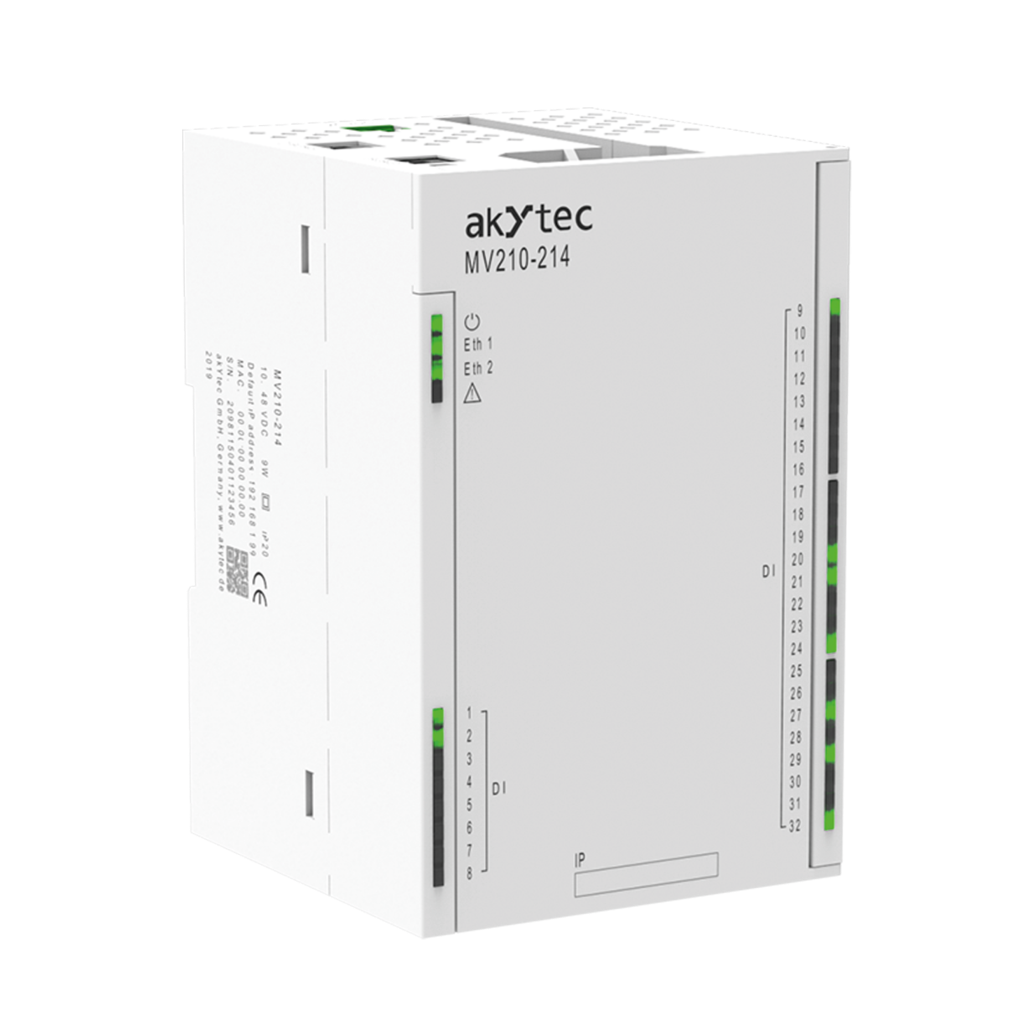
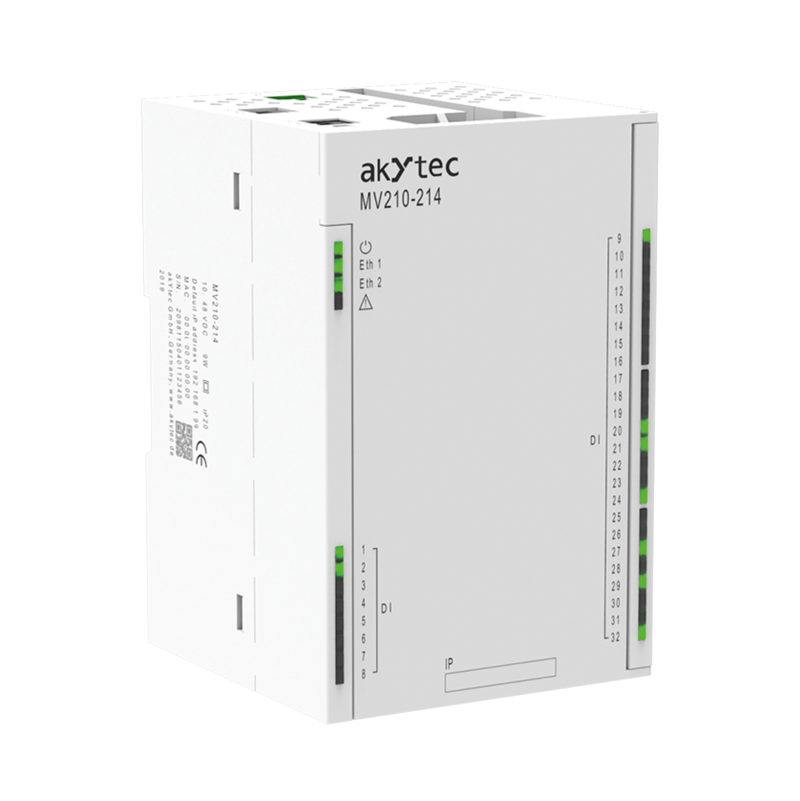
fix/ change size of module png and reslove horizontal scrolling

diff --git a/src/ui/modification-card/modification-card.tsx b/src/ui/modification-card/modification-card.tsx
@@ -9,7 +9,7 @@ export const ModificationCard: FC<any> = (props) => {
 
 const {info, ChangeArrayWithAllOrderPosition} = props;
 
-const {AI, AO, DI, DO, certain_name, common_name, image, width, height, isOrdered, href} = info;
+const {AI, AO, DI, DO, certain_name, common_name, image, width, height, isOrdered, href, unAppproprietedSize} = info;
 
 const {cnContainerNotification, cnContainerButton} = getClasses({
     isOrdered,
@@ -18,7 +18,7 @@ const {cnContainerNotification, cnContainerButton} = getClasses({
 
     return (<li className={classes.modificationCardBlock}>
         <span className={cnContainerNotification}>ADDED TO CART</span>
-        <Image alt="module" src={image} width={width} height={height}/>
+        <Image style={{ position: unAppproprietedSize ? 'absolute' : 'unset', top: unAppproprietedSize ? '0px' : 'unset',  }} alt="module" src={image} width={width} height={height}/>
         <header>{certain_name}</header>
         <div>{common_name}</div>
         <div>{DI && ` DI: ${DI}`}{DO && ` DO: ${DO}`}{AI && ` AI: ${AI}`}{AO && ` AO: ${AO}`}</div>

diff --git a/src/modules/main/modifications_Mx210/style/modifications_mx210.module.scss b/src/modules/main/modifications_Mx210/style/modifications_mx210.module.scss
@@ -110,6 +110,20 @@
 
 }
 
+@media screen and (max-width: 1230px) {
+
+
+    
+.moidificationBlock__listModifications {
+
+    padding-left: 24px;
+    padding-right: 24px;
+
+
+}
+
+}
+
 
 @media screen and (max-width: 1200px) {
 
@@ -235,3 +249,17 @@
 //     }
 
 // }
+
+@media screen and (max-width: 400px) {
+
+
+    
+    .moidificationBlock__listModifications {
+    
+        padding-left: 0px;
+        padding-right: 0px;
+    
+    
+    }
+    
+    }

diff --git a/src/modules/main/moduleAd/ModuleAd.tsx b/src/modules/main/moduleAd/ModuleAd.tsx
@@ -36,7 +36,7 @@ export const ModuleAdAboutModBus: FC = () => {
                 </div>
 
                 
-                <div className={classes.moduleAd_modulePhoto}><Image src={modulePhoto} alt="module" /></div>
+                <div className={classes.moduleAd_modulePhoto}><Image src={modulePhoto} width={600} height={535} alt="module" /></div>
 
             </article>
         </div>

diff --git a/src/ui/shopping-cart/style/shopping-cart.module.scss b/src/ui/shopping-cart/style/shopping-cart.module.scss
@@ -5,7 +5,7 @@
     max-width: 750px;
     width: 100%;
     height: 100%;
-    background-color: rgba(255, 255, 255, 0.9);
+    background-color: rgba(255, 255, 255);
     justify-content: center;
     position: fixed;
     top: 80px;

diff --git a/src/ui/modification-card/style/modificationCard.module.scss b/src/ui/modification-card/style/modificationCard.module.scss
@@ -133,6 +133,12 @@
 
     }
 
+
+    .modificationCardBlock :nth-child(4) {
+      
+    font-size: 12px;
+    }
+
 }
 
 @media screen and (max-width: 290px) {
@@ -154,3 +160,4 @@
     }
 
 }
+
